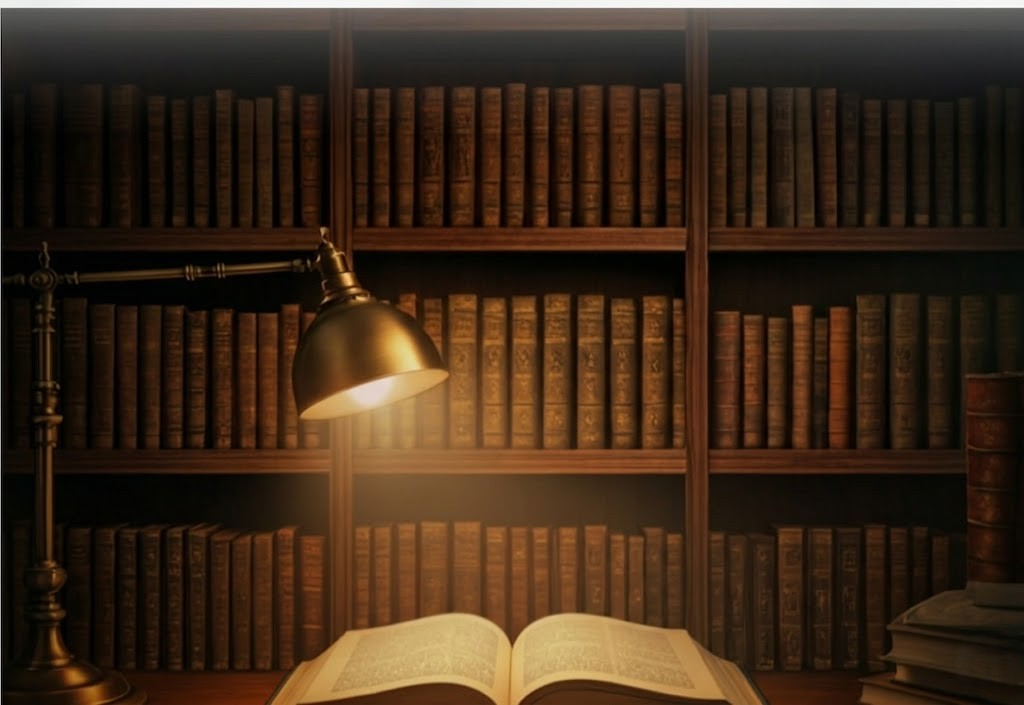
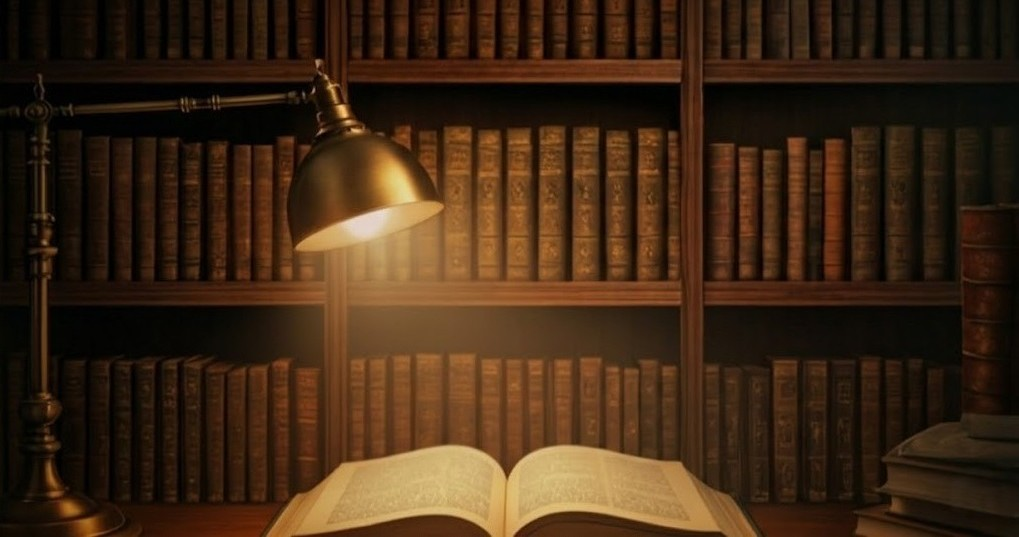
chỉnh chút

diff --git a/index.html b/index.html
@@ -4,6 +4,7 @@
     <meta charset="UTF-8" />
     <meta name="viewport" content="width=device-width, initial-scale=1.0, viewport-fit=cover" />
     <title>Thư Hiên | Bảo tàng Tri thức Việt - Sách cổ & Sách quý</title>
+    <link rel="icon" type="image/jpeg" href="assets/images/logo.jpg">
     <link
       rel="stylesheet"
       href="https://cdnjs.cloudflare.com/ajax/libs/font-awesome/6.4.0/css/all.min.css"
@@ -21,7 +22,6 @@
     <header class="header">
       <div class="header-container">
         <div class="header-brand">
-          <!-- Chỉ giữ logo ảnh, không có chữ bên cạnh -->
           <img src="assets/images/logo.jpg" alt="Logo Thư Hiên" class="logo-img-only" />
         </div>
 
@@ -168,200 +168,5 @@
         <p>Được tạo với ❤️ từ niềm đam mê sách cũ</p>
       </div>
     </footer>
-    <script>
-  // ========== MAPPING ẢNH SÁCH (giữ nguyên như cũ) ==========
-  const imageMap = {
-    "không gia đình": "Khonggiadinh.jpg",
-    "những người khốn khổ": "Nhungnguiohko.jpg",
-    "bố già": "Bogia.jpg",
-    "kiêu hãnh và định kiến": "Kieunhavadin.jpg",
-    "ông già và biển cả": "Onggiavabiance.jpg",
-    "ruồi trâu": "Ruotrauj.jpg",
-    "sông đông êm đềm": "Songdongemde.jpg",
-    "jane eyre": "Janeeyre.jpg",
-    "dế mèn phiêu lưu ký": "Demenphielu.jpg",
-    "tắt đèn": "Tatden.jpg",
-    "số đỏ": "Sodo.jpg",
-    "chí phèo": "Chipheoj.jpg",
-    "vợ nhặt": "Vonhat.jpg",
-    "tuổi thơ dữ dội": "Tuotthodudoj.jpg",
-    "kính vạn hoa": "Kinhvanhoa.jpg",
-    "cho tôi xin một vé đi tuổi thơ": "Chotoixinmotive.jpg",
-    "bàn về tự do": "Banvetudo.jpg",
-    "cộng hòa — plato": "Conghoa.jpg",
-    "đạo đức kinh": "Daoduckinh.jpg",
-    "quân vương — machiavelli": "Quanwong.jpg",
-    "thus spoke zarathustra": "Thus.jpg",
-    "hiện sinh là một nhân bản chủ nghĩa": "Thuyethienshin.jpg",
-    "nghệ thuật yêu — erich fromm": "Nghethatyue.jpg",
-    "meditations — marcus aurelius": "Meditations.jpg",
-    "việt nam sử lược": "Vietnamsuluocj.jpg",
-    "đại việt sử ký toàn thư": "Daivetsukyotmen.jpg",
-    "sapiens": "Sapiens.jpg",
-    "lược sử thời gian": "Luocshuogian.jpg",
-    "silk roads": "Silkroad.jpg",
-    "spqr": "Spqr.jpg",
-    "guns, germs and steel": "Guns.jpg",
-    "chiến tranh và hòa bình": "Chientranhava.jpg",
-    "sherlock holmes": "Sherlockholmes.jpg",
-    "siêu trộm quân tử arsène lupin": "Sietromquantu.jpg",
-    "án mạng trên chuyến tàu tốc hành phương đông": "Anmangtrenchu.jpg",
-    "mười người da đen nhỏ": "Muongiuodade.jpg",
-    "thời khắc định mệnh": "Thoikachdinh.jpg",
-    "tận cùng là cái chết": "Tancunglaacache.jpg",
-    "hannibal": "Hannibal.jpg",
-    "the hound of baskervilles": "TheHoundofBas.jpg",
-    "hoàng tử bé": "Hoangtube.jpg",
-    "totto-chan bên cửa sổ": "Totto-chanben.jpg",
-    "charlie và nhà máy chocolate": "Charlievanhama.jpg",
-    "anne tóc đỏ dưới mái nhà bạch dương": "Anmangtrenchu.jpg",
-    "heidi": "Heid.jpg",
-    "khu vườn bí mật": "Khuuvonbimat.jpg",
-    "norwegian wood": "NorwegianWoo.jpg",
-    "kafka on the shore": "Kafkaontheshor.jpg",
-    "animal farm": "Animalfarm.jpg",
-    "the great gatsby": "Thegreatgatsby.jpg",
-    "to kill a mockingbird": "Tokillamocking.jpg",
-    "crime and punishment": "Crimeandpunish.jpg",
-    "pride and prejudice": "Pridendprejudi.jpg",
-    "văn minh việt nam": "VanninhVietNa.jpg",
-    "ngụ ngôn la fontaine": "NgungonLaFont.jpg",
-    "những trận chiến thay đổi lịch sử": "Nhungtranchien.jpg",
-    "tuyển tập kịch jacinto benavente": "Tuyentapkichla.jpg",
-    "nghìn lẻ một đêm": "Nghinlemotdem.jpg",
-    "một chiến dịch ở bắc kỳ": "Motchindichob.jpg",
-    "truyện kiều hội bản": "Truyenkieuhoiba.jpg",
-    "combo 2 cuốn trăm năm nobel": "Combo2cuontra.jpg"
-  };
-
-  function getImagePath(title) {
-    let key = title.toLowerCase().normalize("NFD").replace(/[\u0300-\u036f]/g, "").replace(/[^a-z0-9\s]/g, "");
-    for (let [mapKey, filename] of Object.entries(imageMap)) {
-      if (key.includes(mapKey) || title.toLowerCase().includes(mapKey)) {
-        return `assets/images/books/${filename}`;
-      }
-    }
-    return null;
-  }
-
-  // Dữ liệu sách (giữ nguyên)
-  const booksData = {
-    "Văn học kinh điển": [
-      { title: "Không Gia Đình", author: "Hector Malot", price: "135.000đ", link: "https://www.fahasa.com/khong-gia-dinh-tai-ban-2024-569982.html" },
-      { title: "Những Người Khốn Khổ", author: "Victor Hugo", price: "180.000đ", link: "#" },
-      { title: "Bố Già", author: "Mario Puzo", price: "210.000đ", link: "#" },
-      { title: "Kiêu Hãnh Và Định Kiến", author: "Jane Austen", price: "150.000đ", link: "#" },
-      { title: "Ông Già Và Biển Cả", author: "Ernest Hemingway", price: "95.000đ", link: "#" },
-      { title: "Ruồi Trâu", author: "Ethel Voynich", price: "110.000đ", link: "#" },
-      { title: "Sông Đông Êm Đềm (Trọn Bộ 2 Tập)", author: "Mikhail Sholokhov", price: "450.000đ", link: "#" },
-      { title: "Jane Eyre", author: "Charlotte Brontë", price: "125.000đ", link: "#" }
-    ],
-    "Văn học Việt Nam xưa": [
-      { title: "Dế Mèn Phiêu Lưu Ký", author: "Tô Hoài", price: "85.000đ", link: "https://nxbkimdong.com.vn/de-men-phieu-luu-ky-2" },
-      { title: "Tắt Đèn", author: "Ngô Tất Tố", price: "95.000đ", link: "#" },
-      { title: "Số Đỏ", author: "Vũ Trọng Phụng", price: "120.000đ", link: "#" },
-      { title: "Chí Phèo", author: "Nam Cao", price: "68.000đ", link: "#" },
-      { title: "Vợ Nhặt", author: "Kim Lân", price: "70.000đ", link: "#" },
-      { title: "Tuổi Thơ Dữ Dội", author: "Phùng Quán", price: "145.000đ", link: "#" },
-      { title: "Kính Vạn Hoa (Bộ 18 Tập)", author: "Nguyễn Nhật Ánh", price: "540.000đ", link: "https://nxbkimdong.com.vn/kinh-van-hoa-tron-bo" },
-      { title: "Cho Tôi Xin Một Vé Đi Tuổi Thơ", author: "Nguyễn Nhật Ánh", price: "98.000đ", link: "#" }
-    ],
-    "Triết học & Tư tưởng": [
-      { title: "Bàn Về Tự Do", author: "John Stuart Mill", price: "125.000đ", link: "#" },
-      { title: "Cộng Hòa — Plato", author: "Plato", price: "160.000đ", link: "#" },
-      { title: "Đạo Đức Kinh", author: "Lão Tử", price: "90.000đ", link: "#" },
-      { title: "Quân Vương — Machiavelli", author: "Niccolò Machiavelli", price: "110.000đ", link: "#" },
-      { title: "Thus Spoke Zarathustra", author: "Nietzsche", price: "145.000đ", link: "#" },
-      { title: "Hiện Sinh Là Một Nhân Bản Chủ Nghĩa", author: "Jean-Paul Sartre", price: "135.000đ", link: "#" },
-      { title: "Nghệ Thuật Yêu — Erich Fromm", author: "Erich Fromm", price: "99.000đ", link: "#" },
-      { title: "Meditations — Marcus Aurelius", author: "Marcus Aurelius", price: "115.000đ", link: "#" }
-    ],
-    "Lịch sử & Văn minh": [
-      { title: "Việt Nam Sử Lược", author: "Trần Trọng Kim", price: "180.000đ", link: "#" },
-      { title: "Đại Việt Sử Ký Toàn Thư", author: "Ngô Sĩ Liên", price: "590.000đ", link: "#" },
-      { title: "Sapiens", author: "Yuval Noah Harari", price: "210.000đ", link: "#" },
-      { title: "Lược Sử Thời Gian", author: "Stephen Hawking", price: "165.000đ", link: "#" },
-      { title: "Silk Roads", author: "Peter Frankopan", price: "320.000đ", link: "#" },
-      { title: "SPQR", author: "Mary Beard", price: "350.000đ", link: "#" },
-      { title: "Guns, Germs and Steel", author: "Jared Diamond", price: "280.000đ", link: "https://www.alphabooks.vn/sung-vi-trung-va-thep" },
-      { title: "Chiến Tranh Và Hòa Bình (3 tập)", author: "Tolstoy", price: "590.000đ", link: "#" }
-    ],
-    "Trinh thám kinh điển": [
-      { title: "Sherlock Holmes (Tuyển tập)", author: "Arthur Conan Doyle", price: "255.000đ", link: "https://www.huyhoangbook.vn/products/sherlock-holmes-tap-4" },
-      { title: "Siêu trộm quân tử Arsène Lupin", author: "Maurice Leblanc", price: "149.000đ", link: "https://nxbkimdong.com.vn/sieu-trom-quan-tu-arsene-lupin" },
-      { title: "Án Mạng Trên Chuyến Tàu Tốc Hành Phương Đông", author: "Agatha Christie", price: "110.000đ", link: "https://www.nxbtre.com.vn/sach/an-mang-tren-chuyen-tau-toc-hanh-phuong-dong-13924.html" },
-      { title: "Mười Người Da Đen Nhỏ", author: "Agatha Christie", price: "98.000đ", link: "https://www.nxbtre.com.vn/sach/muoi-nguoi-da-den-nho-12046.html" },
-      { title: "Thời khắc định mệnh", author: "Agatha Christie", price: "105.000đ", link: "https://www.nxbtre.com.vn/sach/thoi-khac-dinh-menh-159072.html" },
-      { title: "Tận cùng là cái chết", author: "Agatha Christie", price: "109.000đ", link: "https://www.nxbtre.com.vn/sach/tan-cung-la-cai-chet-159073.html" },
-      { title: "Hannibal", author: "Thomas Harris", price: "169.000đ", link: "https://www.netabooks.vn/hannibal" },
-      { title: "The Hound of Baskervilles", author: "Arthur Conan Doyle", price: "125.000đ", link: "#" }
-    ],
-    "Thiếu nhi & tuổi thơ": [
-      { title: "Hoàng Tử Bé", author: "Saint-Exupéry", price: "79.000đ", link: "https://nxbkimdong.com.vn/hoang-tu-be-2" },
-      { title: "Totto-chan Bên Cửa Sổ", author: "Tetsuko Kuroyanagi", price: "115.000đ", link: "https://tiki.vn/sach-totto-chan-ben-cua-so-p124891052.html" },
-      { title: "Charlie Và Nhà Máy Chocolate", author: "Roald Dahl", price: "95.000đ", link: "https://www.fahasa.com/charlie-va-nha-may-so-co-la-tai-ban-2021.html" },
-      { title: "Anne Tóc Đỏ Dưới Mái Nhà Bạch Dương", author: "L.M. Montgomery", price: "138.000đ", link: "#" },
-      { title: "Heidi", author: "Johanna Spyri", price: "89.000đ", link: "#" },
-      { title: "Khu Vườn Bí Mật", author: "Frances H. Burnett", price: "112.000đ", link: "#" }
-    ],
-    "Ngoại văn tuyển chọn": [
-      { title: "Norwegian Wood", author: "Haruki Murakami", price: "165.000đ", link: "https://www.fahasa.com/norwegian-wood.html" },
-      { title: "Kafka On The Shore", author: "Haruki Murakami", price: "199.000đ", link: "https://www.fahasa.com/kafka-on-the-shore-hardback.html" },
-      { title: "Animal Farm", author: "George Orwell", price: "128.000đ", link: "https://www.amazon.ca/Animal-Farm-George-Orwell/dp/0141036133" },
-      { title: "The Great Gatsby", author: "Fitzgerald", price: "145.000đ", link: "https://www.amazon.com/Great-Gatsby-F-Scott-Fitzgerald/dp/0743273567" },
-      { title: "To Kill a Mockingbird", author: "Harper Lee", price: "190.000đ", link: "https://www.fahasa.com/to-kill-a-mockingbird-149378.html" },
-      { title: "Crime and Punishment", author: "Dostoevsky", price: "155.000đ", link: "#" },
-      { title: "Pride and Prejudice", author: "Jane Austen", price: "150.000đ", link: "#" }
-    ],
-    "Ấn bản đặc biệt": [
-      { title: "Văn minh Việt Nam", author: "Lê Văn Siêu", price: "420.000đ", link: "https://muabansachcu.vn/products/van-minh-viet-nam-le-van-sieu" },
-      { title: "Ngụ ngôn La Fontaine (Minh họa Gustave Doré)", author: "La Fontaine", price: "590.000đ", link: "https://muabansachcu.vn/products/ngu-ngon-la-fontaine-minh-hoa-cua-gustave-dore" },
-      { title: "Những trận chiến thay đổi lịch sử", author: "Nhiều tác giả", price: "850.000đ", link: "https://sachdonga.vn/collections/an-ban-gioi-han/products/an-ban-gioi-han-nhung-tran-chien-thay-doi-lich-su" },
-      { title: "Tuyển tập kịch Jacinto Benavente", author: "Jacinto Benavente", price: "490.000đ", link: "https://sachdonga.vn/collections/an-ban-gioi-han/products/tuyen-tap-kich" },
-      { title: "Nghìn lẻ một đêm", author: "Kể dân gian Ả Rập", price: "699.000đ", link: "https://sachdonga.vn/products/an-ban-gioi-han-nghin-le-mot-dem" },
-      { title: "Một chiến dịch ở Bắc Kỳ", author: "L.t. Brière", price: "550.000đ", link: "https://sachdonga.vn/collections/an-ban-gioi-han/products/s500-mot-chien-dich-o-bac-ky" }
-    ]
-  };
-
-  const rareItems = [
-    { title: "Truyện Kiều (1923)", author: "Nguyễn Du", price: "Liên hệ / Bản đặc biệt", link: "#" },
-    { title: "Sử ký (Trọn bộ)", author: "Tư Mã Thiên", price: "12.500.000đ", link: "#" },
-    { title: "Nam được thần hiệu", author: "Tuy Tinh", price: "4.200.000đ", link: "#" },
-    { title: "Vang bóng một thời", author: "Nguyễn Tuấn", price: "1.800.000đ", link: "#" }
-  ];
-
-  function renderBookCard(book) {
-    const imgSrc = getImagePath(book.title);
-    const coverHtml = imgSrc ? `<img src="${imgSrc}" alt="${book.title}" onerror="this.parentElement.innerHTML='<div class=\'fallback-icon\'><i class=\'fas fa-book-open\'></i></div>'">` 
-                            : `<div class="fallback-icon"><i class="fas fa-book-open"></i></div>`;
-    return `
-      <div class="book-card">
-        <div class="book-cover">${coverHtml}</div>
-        <div class="book-info">
-          <div class="book-title">${book.title}</div>
-          <div class="book-author">${book.author}</div>
-          <div class="book-price">${book.price}</div>
-          <a href="${book.link}" target="_blank" class="book-link">Khám phá →</a>
-        </div>
-      </div>
-    `;
-  }
-
-  // Render rare books
-  const rareContainer = document.getElementById('rareBooksGrid');
-  rareContainer.innerHTML = rareItems.map(book => renderBookCard(book)).join('');
-
-  // Render categories
-  const container = document.getElementById('categoriesContainer');
-  let html = '';
-  for (const [catName, books] of Object.entries(booksData)) {
-    html += `<div class="category-section"><div class="cat-title"><i class="fas fa-bookmark"></i> ${catName}</div><div class="book-grid">`;
-    books.forEach(book => {
-      html += renderBookCard(book);
-    });
-    html += `</div></div>`;
-  }
-  container.innerHTML = html;
-</script>
   </body>
 </html>

diff --git a/assets/css/index.css b/assets/css/index.css
@@ -56,7 +56,7 @@
 
 .hero-title {
   font-family: 'Playfair Display', serif;
-  font-size: 56px;
+  font-size: 45px;
   font-weight: 700;
   line-height: 1.2;
   letter-spacing: -0.02em;